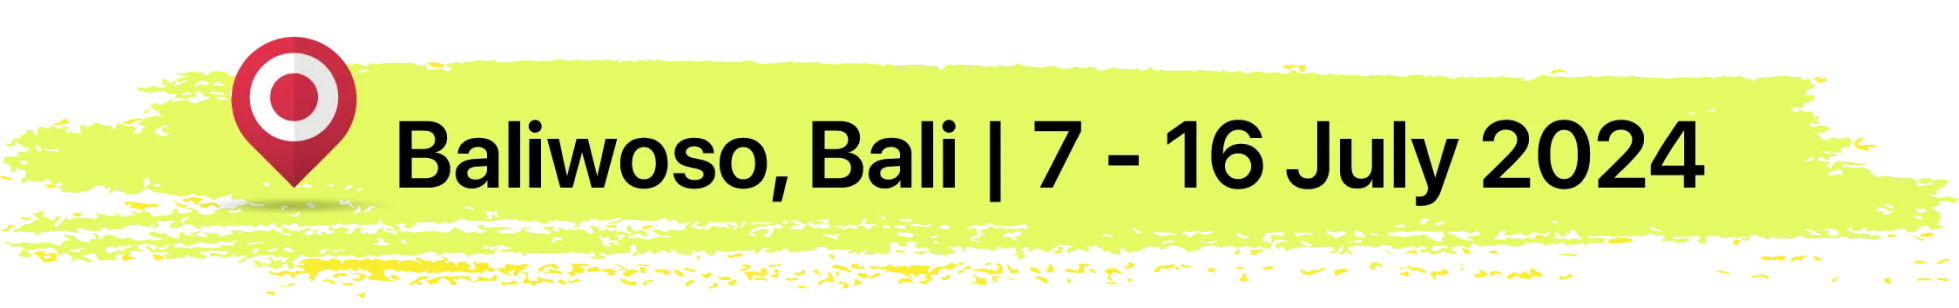
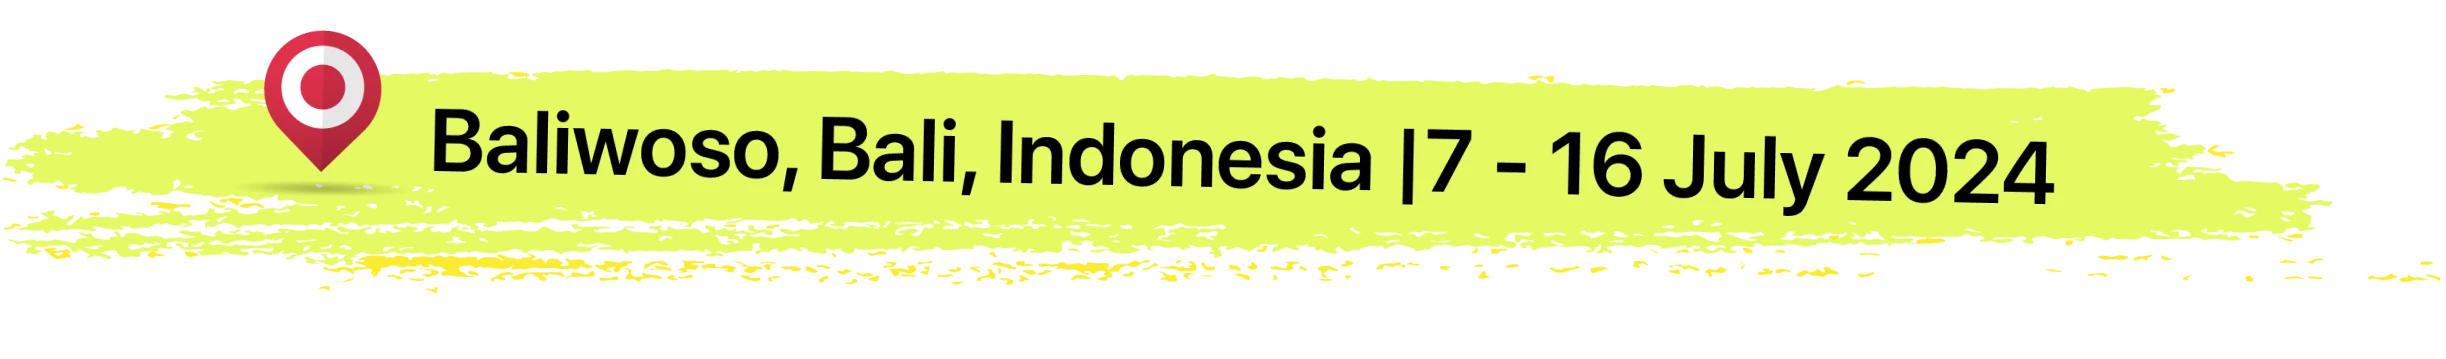
Update Revision

diff --git a/2023-CEP-BALI/assets/css/style.css b/2023-CEP-BALI/assets/css/style.css
@@ -155,9 +155,10 @@
 }
 
 .baliwoso {
-  top: 12px;
-  right: -40px;
-  height: 45px;
+  top: 45px;
+  left: 50%;
+  transform: translate(-50%, 0);
+  height: 30px;
 }
 
 .academic {
@@ -492,10 +493,10 @@
 }
 @media (max-width: 768px) {
   .baliwoso {
-    top: 5px;
-    right: -20px;
+    top: 30px;
     height: 25px;
   }
+  
   .itinerary .day-info {
     width: 200px;
   }
